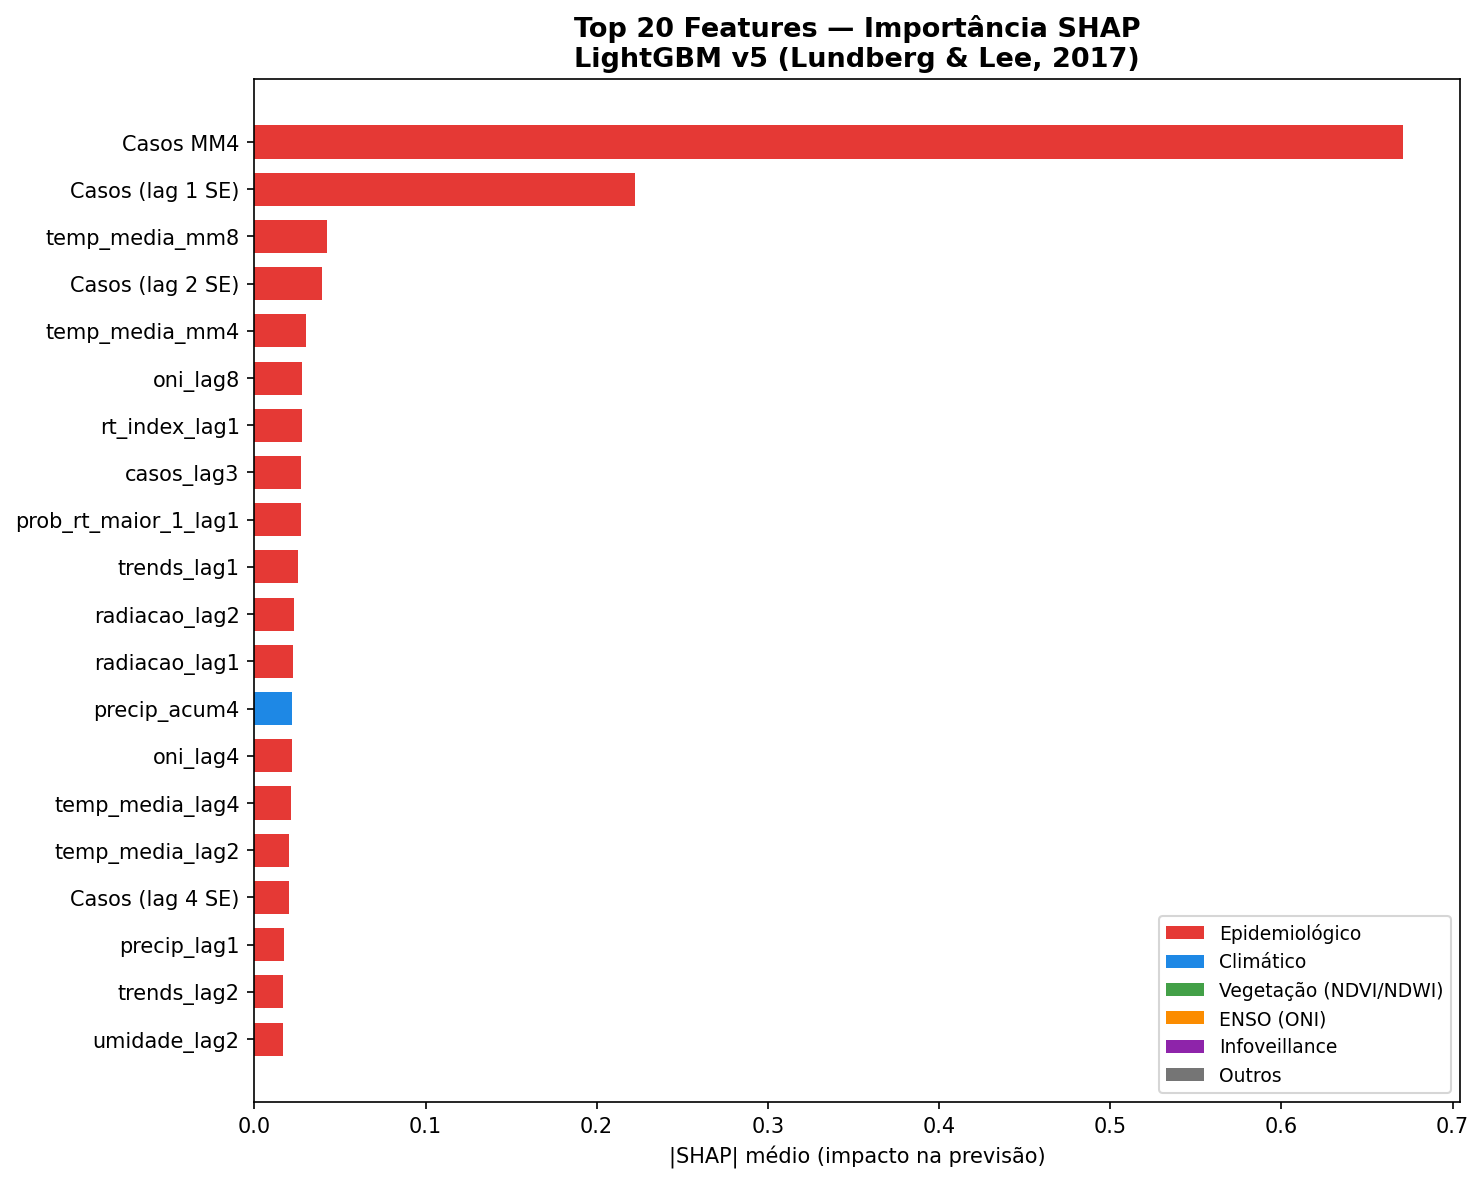
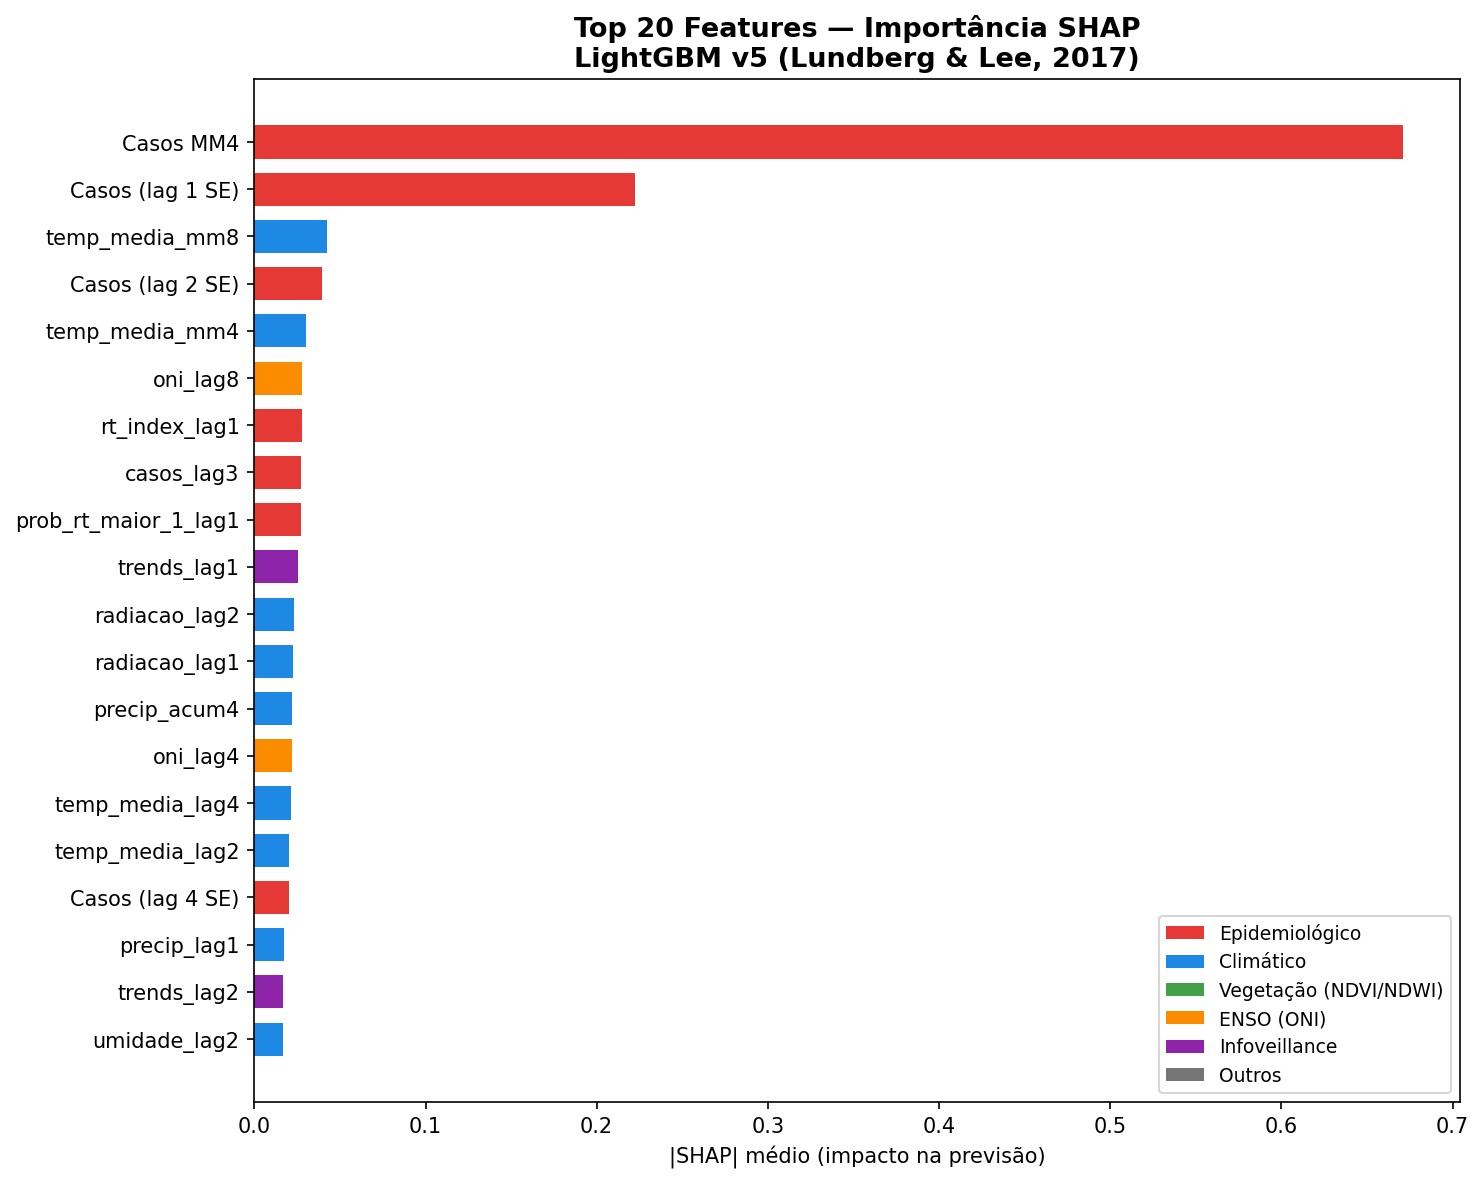
fix: SHAP bar plot — corrigir classificação de cores por grupo de features (80)

diff --git a/notebooks/backtesting/03_shap_analysis.py b/notebooks/backtesting/03_shap_analysis.py
@@ -196,19 +196,20 @@ def plot_bar_top20(df_importance, feature_cols):
 
     fig, ax = plt.subplots(figsize=(10, 8))
 
-    # Colorir por grupo
+    # Colorir por grupo — ORDEM IMPORTA: categorias específicas primeiro
     cores = []
     for feat in top20["feature"]:
-        if "casos" in feat or "lag" in feat or "mm" in feat:
-            cores.append("#E53935")   # Epidemiológico = vermelho
-        elif any(k in feat for k in ["temp", "umidade", "precip", "radiacao", "amplitude"]):
-            cores.append("#1E88E5")   # Climático = azul
-        elif any(k in feat for k in ["ndvi", "ndwi"]):
+        if any(k in feat for k in ["ndvi", "ndwi", "evi"]):
             cores.append("#43A047")   # Vegetação = verde
-        elif "oni" in feat:
+        elif any(k in feat for k in ["oni", "fase_enso"]):
             cores.append("#FB8C00")   # ENSO = laranja
         elif "trends" in feat:
             cores.append("#8E24AA")   # Infoveillance = roxo
+        elif any(k in feat for k in ["temp", "umidade", "precip", "radiacao"]):
+            cores.append("#1E88E5")   # Climático = azul
+        elif any(k in feat for k in ["casos", "rt_index", "prob_rt", "nivel_alerta",
+                                      "receptivo", "transmissao", "notif_acum", "populacao"]):
+            cores.append("#E53935")   # Epidemiológico = vermelho
         else:
             cores.append("#757575")   # Outros = cinza
 
